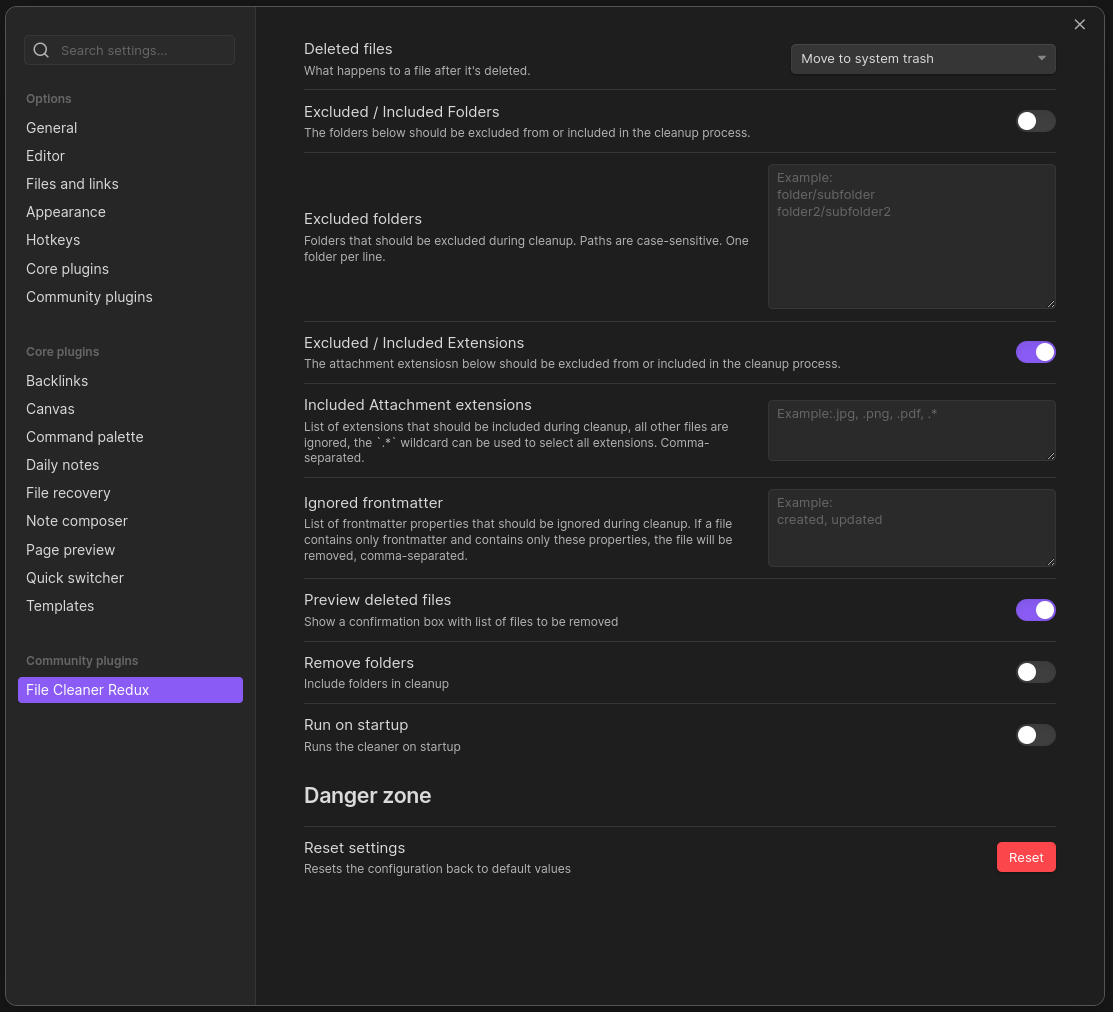
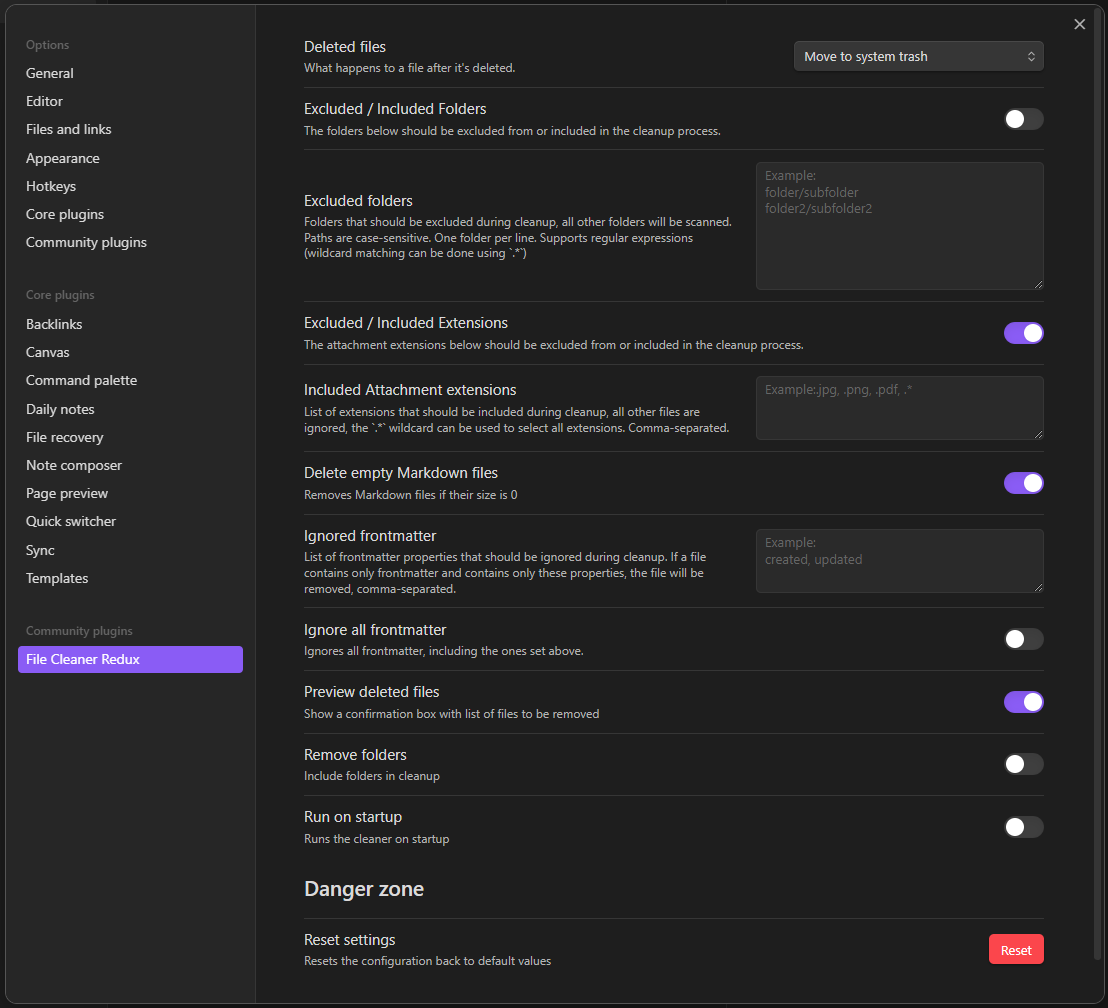
Add feature: Option to control removal of empty files (#89)
* Added checkbox to control whether empty Markdown files are deleted (#88)

* Better screen capture for Options window

* Formatting cleanup with Prettier

diff --git a/src/settings.ts b/src/settings.ts
@@ -16,6 +16,7 @@ export interface FileCleanerSettings {
   removeFolders: boolean;
   ignoredFrontmatter: string[];
   ignoreAllFrontmatter: boolean;
+  deleteEmptyMarkdownFiles: boolean;
 }
 export enum ExcludeInclude {
   Exclude = Number(false),
@@ -34,6 +35,7 @@ export const DEFAULT_SETTINGS: FileCleanerSettings = {
   removeFolders: false,
   ignoredFrontmatter: [],
   ignoreAllFrontmatter: false,
+  deleteEmptyMarkdownFiles: true,
 };
 
 export class FileCleanerSettingTab extends PluginSettingTab {
@@ -223,6 +225,26 @@ export class FileCleanerSettingTab extends PluginSettingTab {
       });
     // #endregion
 
+    // #region Delete empty Markdown files
+    new Setting(containerEl)
+      .setName(
+        translate().Settings.RegularOptions.DeleteEmptyMarkdownFiles.Label,
+      )
+      .setDesc(
+        translate().Settings.RegularOptions.DeleteEmptyMarkdownFiles
+          .Description,
+      )
+      .addToggle((toggle) => {
+        toggle.setValue(this.plugin.settings.deleteEmptyMarkdownFiles);
+
+        toggle.onChange((value) => {
+          this.plugin.settings.deleteEmptyMarkdownFiles = value;
+          this.plugin.saveSettings();
+          this.display();
+        });
+      });
+    // #endregion
+
     // #region Ignored frontmatter
     new Setting(containerEl)
       .setName(translate().Settings.RegularOptions.IgnoredFrontmatter.Label)
@@ -248,7 +270,10 @@ export class FileCleanerSettingTab extends PluginSettingTab {
         text.inputEl.style.minHeight = "4rem";
         text.inputEl.style.maxHeight = "12rem";
       })
-      .setDisabled(this.plugin.settings.ignoreAllFrontmatter)
+      .setDisabled(
+        this.plugin.settings.ignoreAllFrontmatter ||
+          !this.plugin.settings.deleteEmptyMarkdownFiles,
+      )
       .controlEl.setCssStyles(
         this.plugin.settings.ignoreAllFrontmatter && {
           color: "",
@@ -268,7 +293,8 @@ export class FileCleanerSettingTab extends PluginSettingTab {
           this.plugin.saveSettings();
           this.display();
         });
-      });
+      })
+      .setDisabled(!this.plugin.settings.deleteEmptyMarkdownFiles);
     // #endregion
 
     // #region Preview deleted files

diff --git a/src/locales/en.ts b/src/locales/en.ts
@@ -80,6 +80,11 @@ const enUS: Locale = {
         Description: "Show a confirmation box with list of files to be removed",
       },
 
+      DeleteEmptyMarkdownFiles: {
+        Label: "Delete empty Markdown files",
+        Description: "Removes Markdown files if their size is 0",
+      },
+
       RemoveFolders: {
         Label: "Remove folders",
         Description: "Include folders in cleanup",

diff --git a/src/helpers/markdown.ts b/src/helpers/markdown.ts
@@ -7,6 +7,7 @@ export async function checkMarkdown(
   settings: FileCleanerSettings,
 ) {
   if (file.extension !== "md") return false;
+  if (!settings.deleteEmptyMarkdownFiles) return false;
 
   // Check if file has any backlinks
   const metadata = app.metadataCache;

diff --git a/src/locales/locale.d.ts b/src/locales/locale.d.ts
@@ -64,6 +64,11 @@ export interface Locale {
         Description: string;
       };
 
+      DeleteEmptyMarkdownFiles: {
+        Label: string;
+        Description: string;
+      };
+
       RemoveFolders: {
         Label: string;
         Description: string;

diff --git a/README.md b/README.md
@@ -6,7 +6,7 @@ Based on https://github.com/Johnson0907/obsidian-file-cleaner
 
 ## What this plugin does
 
-- Removes Markdown files with a size of 0 bytes.
+- Removes Markdown files with a size of 0 bytes (Optional) (See: [#88](https://github.com/husjon/obsidian-file-cleaner-redux/issues/88))
 - Removes user-defined attachment files (e.g: jpg, jpeg, png, gif, svg, pdf)
 - Support for cleaning empty files containing only specific frontmatter (Optional) (See: https://github.com/husjon/obsidian-file-cleaner-redux/issues/16)
 - Removes empty folders recursively (Optional)
